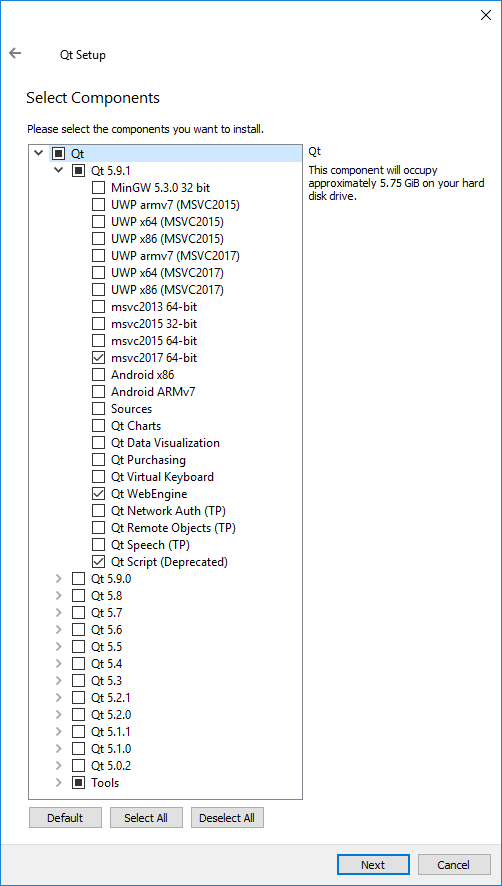
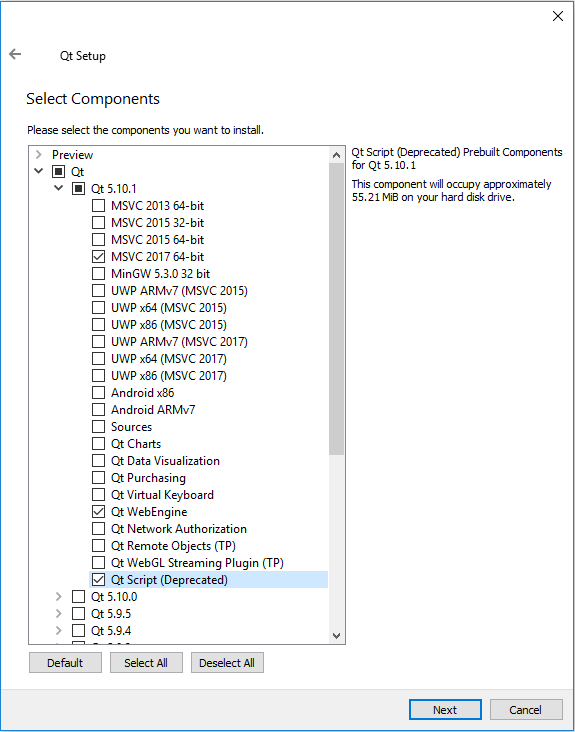
Updating Qt version in Windows build guide.

Changed region(s): [[0.0, 0.0, 1.0, 1.0], [0.0, 0.0, 0.0299, 0.0902], [0.0, 0.9317, 0.0299, 0.9617]]

diff --git a/04.build-guide/04.windows-64-bit/docs.md b/04.build-guide/04.windows-64-bit/docs.md
@@ -19,7 +19,7 @@ To successfully build High Fidelity, check out the [system requirements](http://
 
 ####Software Requirements
 
->>>>> We are now using Visual Studio 2017 and Qt 5.9.1. If you are upgrading from Visual Studio 2013 and Qt 5.6.2, do a clean uninstall of those versions before going through this guide. 
+>>>>> We are now using Visual Studio 2017 and Qt 5.10.1. If you are upgrading from Visual Studio 2013 and Qt 5.6.2, do a clean uninstall of those versions before going through this guide. 
 
 ---
 
@@ -35,11 +35,11 @@ When selecting components, check "Desktop development with C++." Also check "Win
 
 ![img](vs2017-comp.png)
 
-**2. CMake**     
+**2. CMake**
 
 Download and install the latest version of CMake 3.9. Download the file named  win64-x64 Installer from the [CMake Website](https://cmake.org/download/). Make sure to check "Add CMake to system PATH for all users" when prompted during installation.
 
-**3. Qt**              
+**3. Qt**
 
 Download and install the [Qt Online Installer](https://www.qt.io/download-open-source/?hsCtaTracking=f977210e-de67-475f-a32b-65cec207fd03%7Cd62710cd-e1db-46aa-8d4d-2f1c1ffdacea). While installing, deselect components so that your window looks like this:
 
@@ -49,7 +49,7 @@ Note: Installing the Sources is optional but recommended if you have room for th
 
 The next thing you need to do is set the Qt environment variables. Go to "Control Panel > System > Advanced System Settings > Environment Variables > New..." (or search “Environment Variables” in Start Search). Then, setup your Qt variables.  
 * Set "Variable name": QT_CMAKE_PREFIX_PATH 
-* Set "Variable value":  `C:\Qt\5.9.1\msvc2017_64\lib\cmake` 
+* Set "Variable value":  `C:\Qt\5.10.1\msvc2017_64\lib\cmake` 
 
 **4. vcpkg**
 
@@ -115,7 +115,7 @@ If you face any problems once you start trying to generate build files using CMa
 
 #####Common Errors and their Solutions
 * If CMake gives you the same error message repeatedly after the build fails, try to remove CMakeCache.txt found in the %HIFI_DIR%\build' directory.
-* If Qt is throwing an error, make sure you have the correct version (5.9.1) installed and the 'QT_CMAKE_PREFIX_PATH' environment variable is set correctly.
+* If Qt is throwing an error, make sure you have the correct version (5.10.1) installed and the 'QT_CMAKE_PREFIX_PATH' environment variable is set correctly.
 * If the application builds but does not start up, make sure that the root Qt directory is NOT in your PATH environment variable.
 
 
